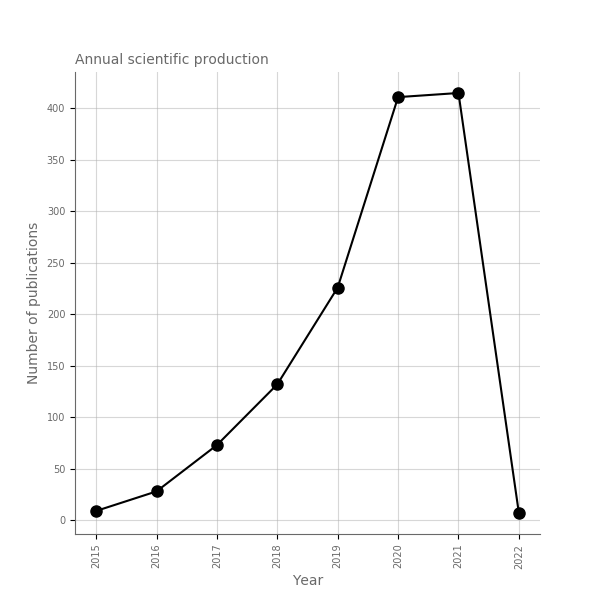
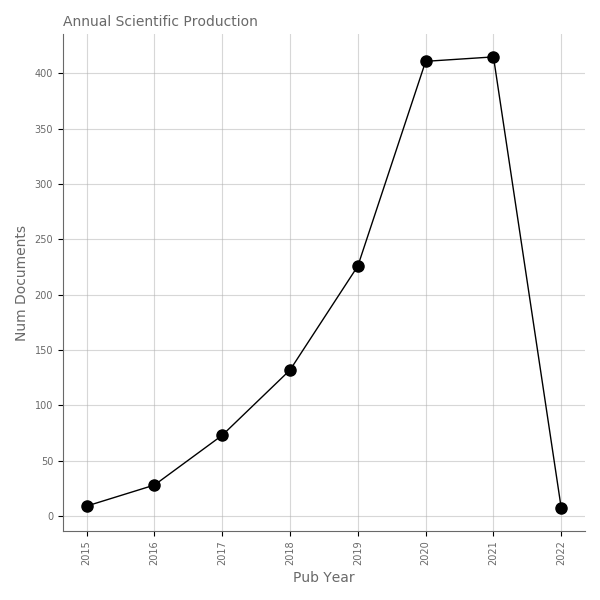
fix integer types in line_chart

diff --git a/techminer/line_chart.py b/techminer/line_chart.py
@@ -2,14 +2,7 @@
 Bar chart
 ===============================================================================
 
->>> from techminer import *
->>> directory = "/workspaces/techminer-api/tests/data/"
->>> line_chart(series=annual_indicators(directory)['num_documents'], darkness=annual_indicators(directory)['global_citations'])
-
-.. image:: images/bar_chart.png
-    :width: 400px
-    :align: center
-
+Horizontal bar chart.
 
 """
 
@@ -23,73 +16,80 @@ import numpy as np
 # from techminer.plots.shorten_ticklabels import shorten_ticklabels
 
 TEXTLEN = 29
+import matplotlib.ticker as tick
+
+
+def _yaxis_format(y_value, y_position):
+    y_formated = "{:1.0f}".format(y_value)
+    return y_formated
 
 
 def line_chart(
     series,
-    color="Greys",
+    color="k",
     figsize=(6, 6),
-    fontsize=9,
-    linewidth=0.5,
+    linewidth=1,
+    marker="o",
+    markersize=8,
+    title=None,
     xlabel=None,
     ylabel=None,
-    zorder=10,
+    alpha=1.0,
 ):
-    """Make a line plot.
 
-    Returns:
-        container: Container with all the bars and optionally errorbars.
-
-
-    """
-
-    matplotlib.rc("font", size=fontsize)
     fig = plt.Figure(figsize=figsize)
     ax = fig.subplots()
 
     ax.plot(
-        series.index,
-        series,
+        series.index.astype(str),
+        series.values,
         linewidth=linewidth,
-        marker="o",
-        zorder=zorder,
+        marker=marker,
+        markersize=markersize,
         color=color,
+        alpha=alpha,
     )
+
+    if title is not None:
+        ax.set_title(title, fontsize=10, color="dimgray", loc="left")
 
     if xlabel is None:
         xlabel = series.index.name
         xlabel = xlabel.replace("_", " ")
         xlabel = xlabel.title()
+        ax.set_xlabel(xlabel, color="dimgray")
 
     if ylabel is None:
         ylabel = series.name
         ylabel = ylabel.replace("_", " ")
         ylabel = ylabel.title()
+        ax.set_ylabel(ylabel, color="dimgray")
 
-    ax.set_xlabel(xlabel)
-    ax.set_ylabel(ylabel)
+    ax.set_xticklabels(
+        series.index.astype(str),
+        rotation=90,
+        horizontalalignment="center",
+        fontsize=7,
+        color="dimgray",
+    )
 
-    # yticklabels = series.index
-    # if yticklabels.dtype != "int64":
-    #     yticklabels = [
-    #         textwrap.shorten(
-    #             text=yticklabels[i],
-    #             width=TEXTLEN,
-    #             placeholder="...",
-    #             break_long_words=False,
-    #         )
-    #         for i in range(len(yticklabels))
-    #     ]
+    ax.set_yticklabels(
+        ax.get_yticks(),
+        fontsize=7,
+        color="dimgray",
+    )
 
-    # ax.invert_yaxis()
-    # ax.set_yticks(np.arange(len(series)))
-    # ax.set_yticklabels(yticklabels)
+    if series.dtype == np.int64:
+        ax.yaxis.set_major_formatter(tick.FuncFormatter(_yaxis_format))
 
     for x in ["top", "right"]:
         ax.spines[x].set_visible(False)
 
-    ax.grid(axis="x", color="gray", linestyle="-")
-    ax.grid(axis="y", color="gray", linestyle="-")
+    ax.spines["left"].set_color("dimgray")
+    ax.spines["bottom"].set_color("dimgray")
+    ax.spines["top"].set_visible(False)
+    ax.spines["right"].set_visible(False)
+    ax.grid(alpha=0.5)
 
     fig.set_tight_layout(True)
 

diff --git a/techminer/annual_indicators.py b/techminer/annual_indicators.py
@@ -39,6 +39,12 @@ pub_year
 2022                      7019                 3054 
 
 
+>>> line_chart(annual_indicators()['num_documents'], title="Annual Scientific Production", y_axis_int=True)
+
+.. image:: images/annual_scientific_production.png
+    :width: 600px
+    :align: center
+
 """
 from .utils import load_filtered_documents
 

diff --git a/techminer/column_indicators.py b/techminer/column_indicators.py
@@ -27,6 +27,9 @@ Hamdan A                      5                18                7
 Ashta A                       5                 9                7
 Baber H                       5                12                5
 
+
+
+
 """
 
 from .utils import load_filtered_documents

diff --git a/sphinx/index.rst b/sphinx/index.rst
@@ -34,8 +34,6 @@ Analysis of bibliographic datasets using Python
     :maxdepth: 1
 
     annual_indicators
-    annual_scientific_production
-    average_citations_per_year
     collaboration_indicators
     column_indicators
     column_indicators_by_year
